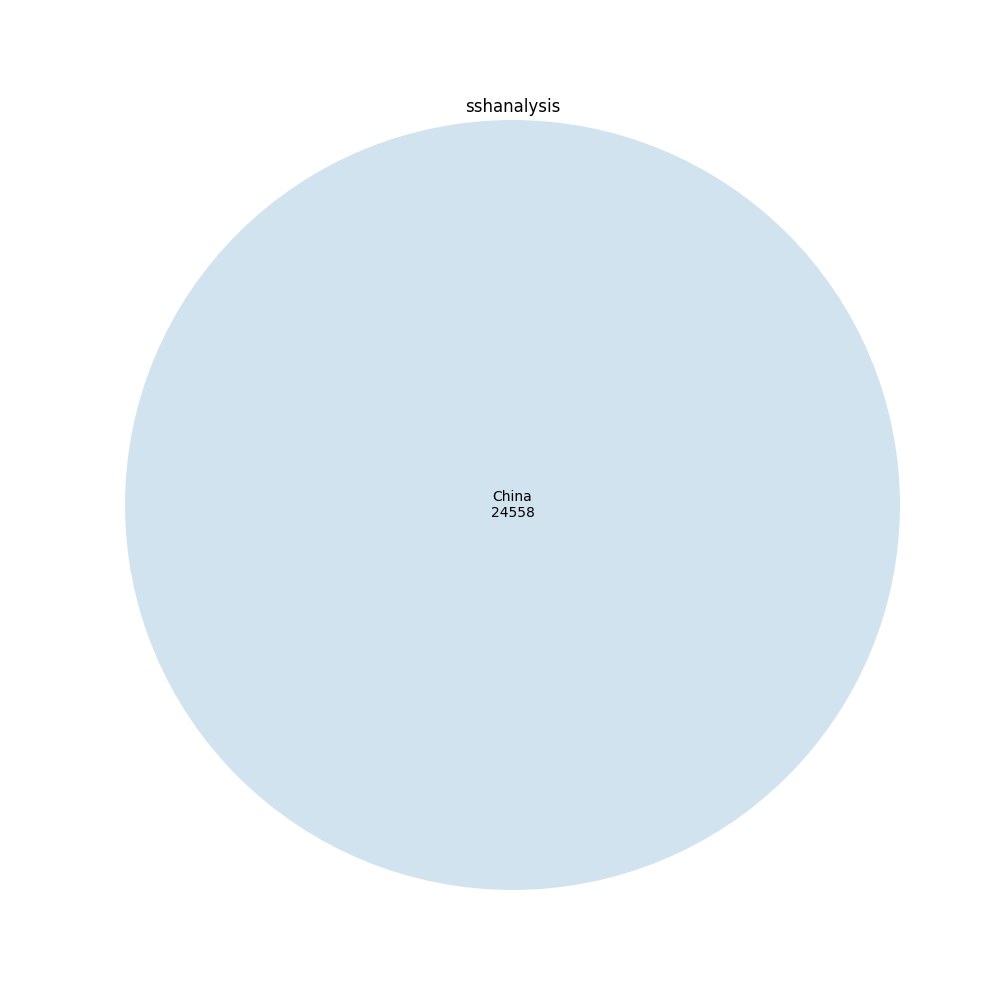
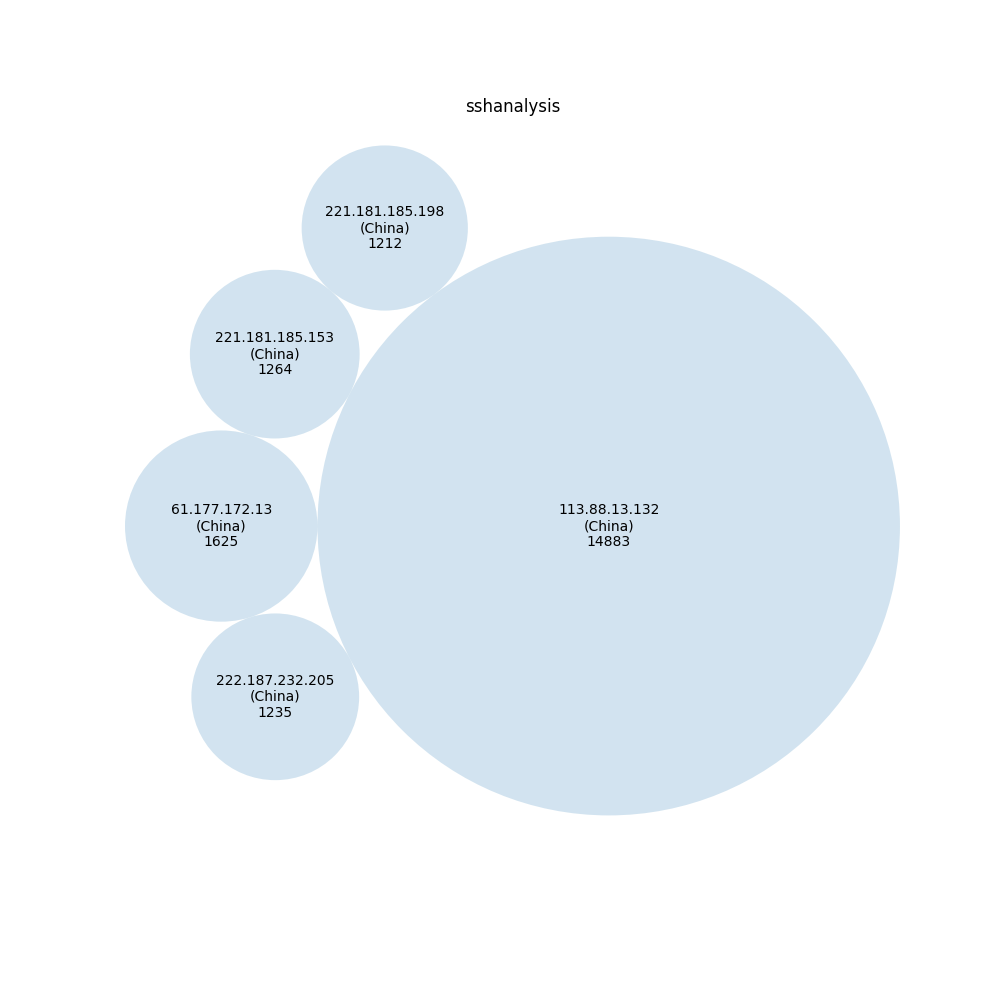
Group By IP実装

diff --git a/src/yknsshanalysis.py b/src/yknsshanalysis.py
@@ -46,6 +46,8 @@ def main(args=sys.argv):
   # 旧版との互換性
   if "addr" in optionDict:
     optionDict["log"] = optionDict["addr"]
+  group_by_ip = "group_by_ip" in optionDict
+
   # メイン処理
   print("reading auth.log file...")
   try:
@@ -60,7 +62,10 @@ def main(args=sys.argv):
   # Extract unauthorized access->count same IPs
   df_ipfreq = create_ip_count_df_fast(df_log)
   # Ignore unauthorized access from the same IP if it is below a certain level
-  df_iphifreq = df_ipfreq[df_ipfreq["count"] > optionDict["ignore_less"]]
+  if group_by_ip:
+    df_iphifreq = df_ipfreq.sort_values(by="count", ascending=False).head(optionDict["show_top"])
+  else:
+    df_iphifreq = df_ipfreq[df_ipfreq["count"] > optionDict["ignore_less"]]
   # Load whois history
   if optionDict["ip_dict"] == "None":
     print("...whois cache has been ignored.")
@@ -73,9 +78,12 @@ def main(args=sys.argv):
   if dic_ip_history is not None:
     print("...exporting whois history")
     saveLibrary(optionDict["ip_dict"], dic_ip_history)
-  print(df_ct_ip_freq)
+  print(df_ct_ip_freq.head(optionDict["show_top"]))
   print("grouping countries")
-  dfs_list = country_grouping(df_ct_ip_freq)
+  if group_by_ip:
+    dfs_list = list_by_ip(df_ct_ip_freq)
+  else:
+    dfs_list = list_by_country(df_ct_ip_freq)
   show_graph(dfs_list, optionDict["show_top"], export_name)
 
 
@@ -199,12 +207,22 @@ def do_whois(df_ip_and_frequency, dic_ip_history, optionDict):
   return df_ip_country_frequency, dic_ip_history
 
 
-def country_grouping(df_ip_country_frequency):
+def list_by_country(df_ip_country_frequency):
   df_country_frequency = df_ip_country_frequency.groupby("country").sum()
   country_frequency_list = []
   # key = country, value= total attack count
   for i, v in df_country_frequency.iterrows():
     d = {'key': i, 'value': v.iloc[0]}
+    country_frequency_list.append(d)
+  country_frequency_list = sorted(country_frequency_list, key=lambda x: -x['value'])
+  return country_frequency_list
+
+
+def list_by_ip(df_ip_country_frequency):
+  country_frequency_list = []
+  # key = IP(country), value= total attack count
+  for ip, v in df_ip_country_frequency.iterrows():
+    d = {'key': ip + "\n(" + v.iloc[0] + ")", 'value': v.iloc[1]}
     country_frequency_list.append(d)
   country_frequency_list = sorted(country_frequency_list, key=lambda x: -x['value'])
   return country_frequency_list
